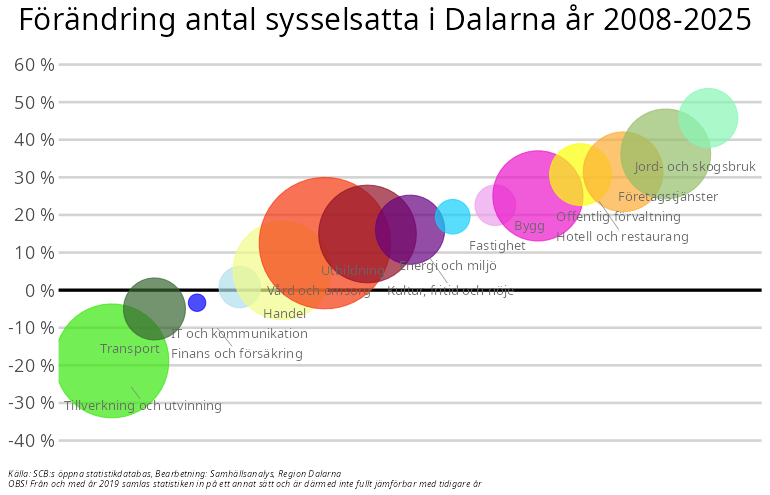
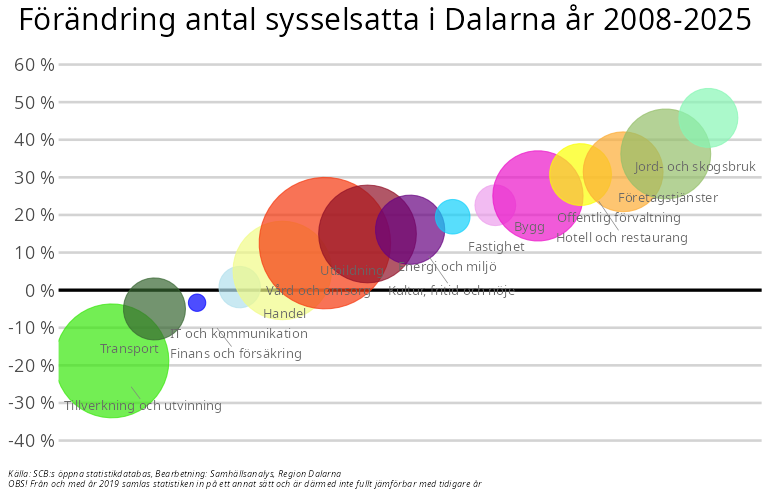
rddiagramkatalog 0.0.0.9027: gör returvärdet konsekvent (namngiven lista) för 3 diagramfunktioner
diag_forandr_branscher_bubblor_scb, diag_inr_flytt_in_ut_netto_per_alder_scb
och diag_inr_flytt_in_ut_netto_tidsserie_per_alder_scb returnerade ett
naket ggplot-objekt direkt (precis som originalskripten) i stället för
en namngiven lista som alla andra diag_*()-funktioner i paketet. På
användarens begäran, för konsekvens med paketets returvärdeskonvention,
returnerar alla tre nu en namngiven lista med ett ggplot-objekt.

Flyttade filnamnsberäkningen i diag_forandr_branscher_bubblor_scb
utanför if (skriv_diagramfil)-blocket, eftersom filnamnet nu alltid
behövs för att namnge listelementet, inte bara när filen skrivs.

Förenklade tillbaka data-raw/skapa_exempeldiagram.R:s hantering av
diagram_lista[[1]] - specialfallet för ett naket ggplot-objekt (infört
i en tidigare commit för att hantera just dessa tre funktioner) behövs
inte längre.

OBS: detta är en beteendeändring för eventuell befintlig anropskod mot
dessa tre funktioner - de returnerar nu en lista, inte ett ggplot-objekt
direkt.

Verifierat: roxygen rent, paketet byggt och installerat, alla tre
funktioner smoke-testade live - returnerar nu en namngiven lista med
rätt filnamn som nyckel. Exempelbilderna regenererade (bubbeldiagrammet
fick en ny bild pga uppdaterad data, de två andra blev byte-identiska).

Claude-Session: https://claude.ai/code/session_014bzEkHybYNzvcyicG3yioL

diff --git a/packages/rddiagramkatalog/NEWS.md b/packages/rddiagramkatalog/NEWS.md
@@ -1,3 +1,22 @@
+# rddiagramkatalog 0.0.0.9027
+
+Gjorde returvärdet konsekvent för de tre diagramfunktioner som
+avvek från paketets mönster (och från originalskripten) genom att
+returnera ett naket `ggplot`-objekt direkt i stället för en namngiven
+lista:
+
+- `diag_forandr_branscher_bubblor_scb`
+- `diag_inr_flytt_in_ut_netto_per_alder_scb`
+- `diag_inr_flytt_in_ut_netto_tidsserie_per_alder_scb`
+
+Samtliga returnerar nu en namngiven lista med ett `ggplot`-objekt, som
+alla andra `diag_*()`-funktioner i paketet. Detta är en beteendeändring
+för befintlig anropskod som förväntar sig ett rent ggplot-objekt
+(måste nu plocka ut det med `[[1]]`).
+
+Förenklade samtidigt tillbaka skapa_exempeldiagram.R:s `diagram_lista[[1]]`-
+hantering (specialfallet för naket ggplot-objekt behövs inte längre).
+
 # rddiagramkatalog 0.0.0.9026
 
 Sista 5 diagrammen migrerade från Region-Dalarna/diagram - samtliga 53
